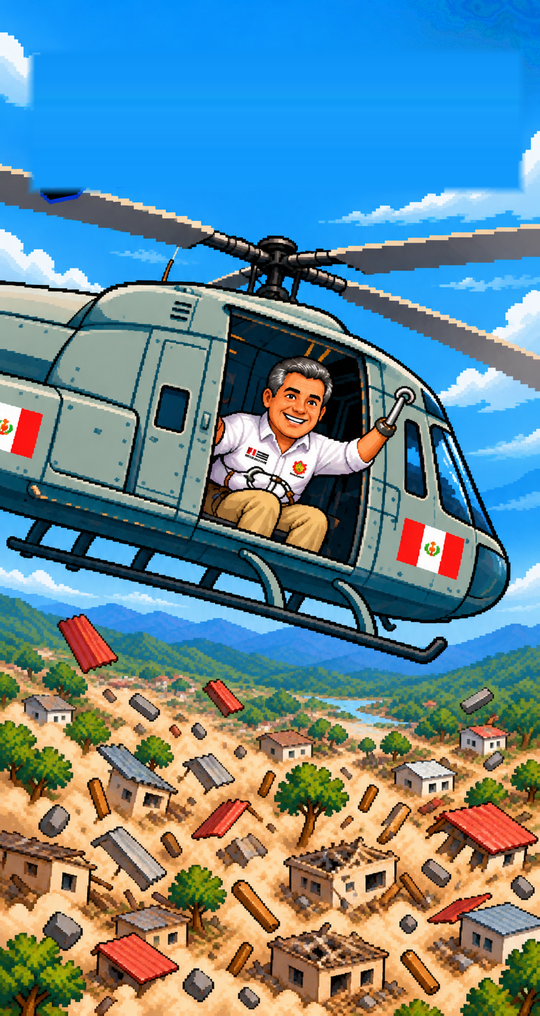
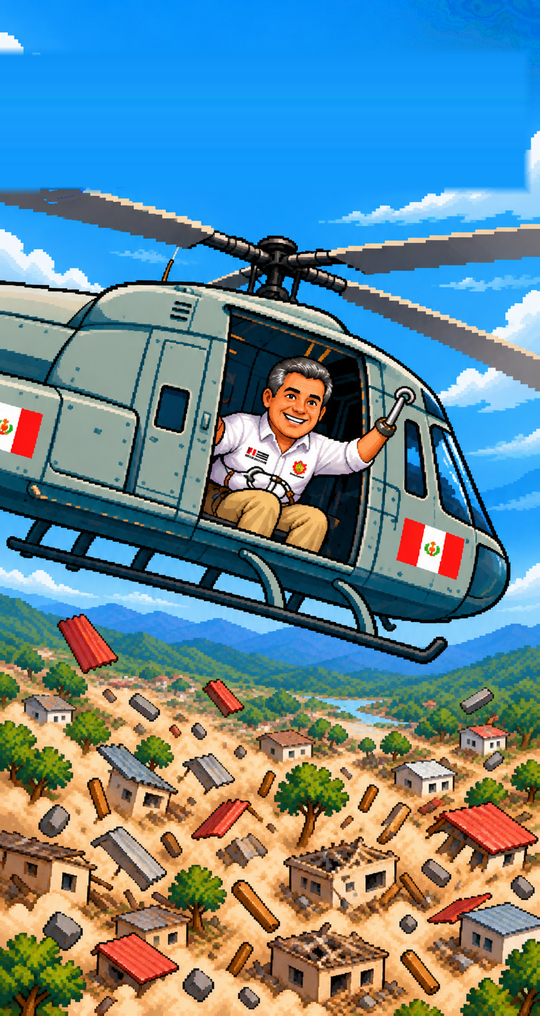
Pala Foto: Polaroid alterna por misión
Claude-Session: https://claude.ai/code/session_012zVcprxqH1powAMdHRxY7z

Changed region(s): [[0.0, 0.1526, 0.1481, 0.2136], [0.0, 0.0305, 0.0889, 0.122], [0.9481, 0.1526, 1.0, 0.1831]]

diff --git a/palafoto/index.html b/palafoto/index.html
@@ -154,8 +154,8 @@ const HEART = ['.XX.XX.', 'XXXXXXX', 'XXXXXXX', '.XXXXX.', '..XXX..', '...X...']
 function heart(x, y, p, c, a = 1) { const key = c + p; let s = heartCache[key]; if (!s) { s = document.createElement('canvas'); s.width = 7 * p; s.height = 6 * p; const g = s.getContext('2d'); HEART.forEach((row, j) => [...row].forEach((ch, i) => { if (ch === 'X') { g.fillStyle = c; g.fillRect(i * p, j * p, p, p); } })); g.fillStyle = 'rgba(255,255,255,.75)'; g.fillRect(p, p, p, p); heartCache[key] = s; } ctx.globalAlpha = a; ctx.drawImage(s, Math.round(x - 3.5 * p), Math.round(y - 3 * p)); ctx.globalAlpha = 1; }
 
 /* ---------- recursos (arte de MNRY recortado de la hoja) ---------- */
-const ASSET_V = 5, IMG = {};
-const ASSETS = ['t_logo', 't_cover', 't_photo', 'x_b_cheer0','x_c_check','x_c_cut','x_c_done','x_c_fake','x_c_model','x_c_sign','x_c_unfinished','x_c_warn','x_flash0','x_flash1','x_flash2','x_fx_burst1','x_fx_gold1','x_fx_smoke0','x_h_beam','x_h_down','x_h_dust','x_h_fly','x_h_sheet0','x_h_sheet1','x_h_up','x_h_wind0','x_house0','x_house1','x_house2','x_house3','x_house4','x_i_camera','x_i_clap','x_i_heart','x_i_mega','x_i_star','x_k_cheer0','x_k_cheer1','x_k_cheer2','x_k_pose','x_k_sad0','x_k_walk0','x_k_walk1','x_k_walk2','x_k_walk3','x_k_walk4','x_k_walk5','x_k_walk6','x_o_barrier','x_o_cone0','x_o_cone1','x_o_hole0','x_o_hole1','x_o_tree','x_p_food','x_r_bg','x_v_clap0','x_v_clap1','x_v_clap2','x_v_clap3','x_v_clap4','x_v_clap5','x_v_clap6','x_v_run0','x_v_run1','x_v_run2','x_v_run3','x_v_run4','x_v_scared0','x_v_scared1','x_v_scared2','x_v_scared3', 'scene', 'k_idle', 'k_talk', 'k_prep', 'k_throw', 'k_cheer', 'k_sad', 'b_idle', 'b_block', 'b_dodge', 'b_selfie', 'b_tweet', 'b_hit', 'b_leave',
+const ASSET_V = 6, IMG = {};
+const ASSETS = ['t_logo', 't_cover', 't_photo', 't_photo2', 'x_b_cheer0','x_c_check','x_c_cut','x_c_done','x_c_fake','x_c_model','x_c_sign','x_c_unfinished','x_c_warn','x_flash0','x_flash1','x_flash2','x_fx_burst1','x_fx_gold1','x_fx_smoke0','x_h_beam','x_h_down','x_h_dust','x_h_fly','x_h_sheet0','x_h_sheet1','x_h_up','x_h_wind0','x_house0','x_house1','x_house2','x_house3','x_house4','x_i_camera','x_i_clap','x_i_heart','x_i_mega','x_i_star','x_k_cheer0','x_k_cheer1','x_k_cheer2','x_k_pose','x_k_sad0','x_k_walk0','x_k_walk1','x_k_walk2','x_k_walk3','x_k_walk4','x_k_walk5','x_k_walk6','x_o_barrier','x_o_cone0','x_o_cone1','x_o_hole0','x_o_hole1','x_o_tree','x_p_food','x_r_bg','x_v_clap0','x_v_clap1','x_v_clap2','x_v_clap3','x_v_clap4','x_v_clap5','x_v_clap6','x_v_run0','x_v_run1','x_v_run2','x_v_run3','x_v_run4','x_v_scared0','x_v_scared1','x_v_scared2','x_v_scared3', 'scene', 'k_idle', 'k_talk', 'k_prep', 'k_throw', 'k_cheer', 'k_sad', 'b_idle', 'b_block', 'b_dodge', 'b_selfie', 'b_tweet', 'b_hit', 'b_leave',
   'p_heart', 'p_kiss', 'p_donut', 'p_gift', 'p_doc', 'w_heart', 'w_kiss', 'w_donut', 'w_gift', 'w_doc', 'd_shield', 'd_shield2', 'd_selfie', 'd_bird', 'd_gust',
   'fx_heart', 'fx_spark', 'fx_donut', 'fx_crumbs', 'fx_paper', 'fx_gust', 'u_face', 'u_star', 'u_staroff', 'u_sling', 'u_pause', 'm_win', 'm_lose', 'e_portrait'];
 let loaded = 0;
@@ -706,7 +706,8 @@ LEVELS.push({
     ctx.save(); ctx.globalAlpha = 1 - out; ctx.translate(W / 2, 470); ctx.rotate(-.05 + (1 - k) * .2); ctx.scale(s, s);
     R(-pw / 2 + 8, -ph / 2 + 10, pw, ph, 'rgba(0,0,0,.35)'); R(-pw / 2, -ph / 2, pw, ph, '#fbf8f1'); R(-pw / 2, -ph / 2, pw, 2, '#fff');
     const ix = -iw / 2, iy = -ph / 2 + 15;
-    if (ok(PHOTO_K)) { const im = IMG[PHOTO_K], r = Math.max(iw / im.width, ih / im.height), sw = iw / r, sh = ih / r; ctx.drawImage(im, (im.width - sw) / 2, (im.height - sh) / 2, sw, sh, ix, iy, iw, ih); }
+    const PK = this.D % 2 === 1 && ok('t_photo2') ? 't_photo2' : PHOTO_K;
+    if (ok(PK)) { const im = IMG[PK], r = Math.max(iw / im.width, ih / im.height), sw = iw / r, sh = ih / r; ctx.drawImage(im, (im.width - sw) / 2, (im.height - sh) / 2, sw, sh, ix, iy, iw, ih); }
     else if (this.snap) { const sh = this.snap.height, sw = sh * iw / ih, sx_ = clamp(this.x - sw / 2, 0, W - sw); ctx.drawImage(this.snap, sx_, 0, sw, sh, ix, iy, iw, ih); }
     const dev = clamp((t - .2) / 1.2, 0, 1); ctx.globalAlpha = (1 - out) * (1 - dev) * .9; R(ix, iy, iw, ih, '#fff'); ctx.globalAlpha = 1 - out;
     T('Misión ' + (this.D + 1) + ' de 3 · ¡Con foto!', 0, ph / 2 - 50, { size: 17, align: 'center', color: '#2a2a33', weight: 700 });
